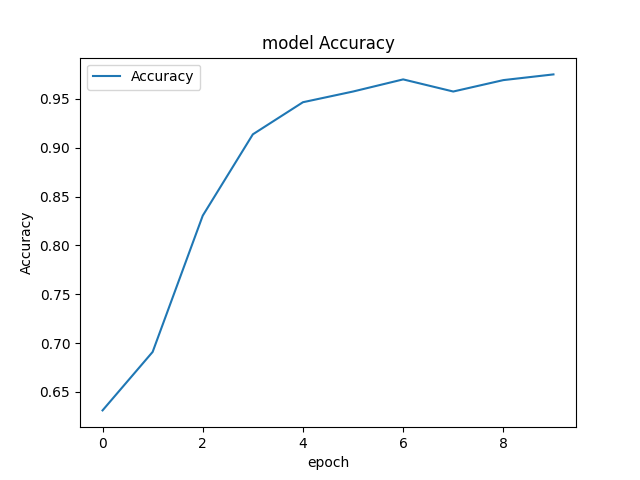
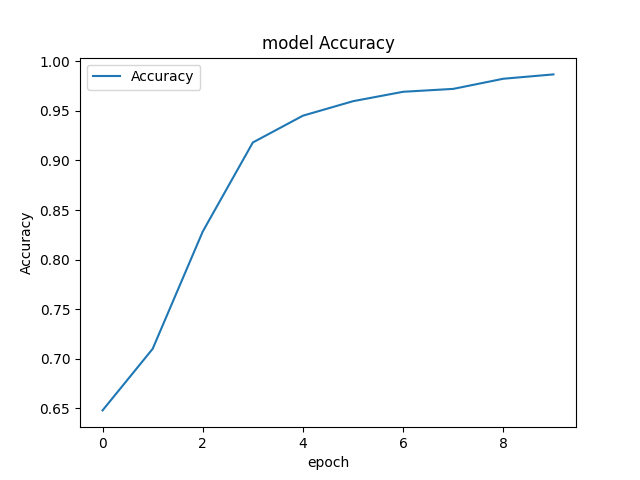
Final refactoring

diff --git a/Code/Models/nnPytorch.py b/Code/Models/nnPytorch.py
@@ -82,15 +82,15 @@ class NeuralNet:
         y_train = Variable(torch.from_numpy(self.y_train.values)).long()
         train_loss,train_acc = [],[] 
 
-        model = Model(self.input_dim, self.hidden_layer, self.output_dim)
-        optimizer = torch.optim.Adam(model.parameters(), lr=0.01)
+        self.model = Model(self.input_dim, self.hidden_layer, self.output_dim)
+        optimizer = torch.optim.Adam(self.model.parameters(), lr=0.01)
         criterion = nn.CrossEntropyLoss()
         
         # Calculating the model loss and accuracy for train dataset
-        model.train()
+        self.model.train()
         for epoch in range(epochs):
             optimizer.zero_grad()
-            y_pred = model(x_train)
+            y_pred = self.model(x_train)
             loss = criterion(y_pred, y_train)
             print ("epoch #",epoch)
             print ("loss: ", loss.item())
@@ -108,20 +108,20 @@ class NeuralNet:
         return max(train_acc)
 
     def testCaluculation(self):
-        torch.manual_seed(0)
-        self.X_train,self.X_test,self.y_train,self.y_test = self.dataProduce()
+        # torch.manual_seed(0)
+        # self.X_train,self.X_test,self.y_train,self.y_test = self.dataProduce()
         test_loss,test_acc = 0,0
 
-        model = Model(self.input_dim, self.hidden_layer, self.output_dim)
+        ##model = Model(self.input_dim, self.hidden_layer, self.output_dim)
         # optimizer = torch.optim.Adam(model.parameters(), lr=0.01)
         criterion = nn.CrossEntropyLoss()
 
-        model.eval()
+        self.model.eval()
         x_test = Variable(torch.from_numpy(self.X_test)).float()
         y_test = Variable(torch.from_numpy(self.y_test.to_numpy())).long()
 
         with torch.no_grad():
-            y_pred = model(x_test)
+            y_pred = self.model(x_test)
             loss = criterion(y_pred, y_test)
             pred = torch.max(y_pred, 1)[1].eq(y_test).sum()
             print ("Test loss: ", loss.item())
@@ -144,7 +144,8 @@ class NeuralNet:
         plt.pause(3)
         plt.close()
         plt.show()
+        return test
 
 
 if __name__ == '__main__':
-    NeuralNet('YoutubeComplete.csv',1000,100,2,30).run()
+    NeuralNet('YoutubeComplete.csv',1000,5,2,10).run()

diff --git a/main.py b/main.py
@@ -8,7 +8,7 @@ import SupportVectorMachine,NaiveBayes,RandomForest,nnPytorch,lstm
 data = 'YoutubeComplete.csv'
 
 svm = SupportVectorMachine.SupportVector(data)
-svm.supportVectorMachine()
+svmVals = svm.supportVectorMachine()
 
 rf = RandomForest.randomForest(data).metrics()
 
@@ -16,4 +16,4 @@ nb = NaiveBayes.NaiveBayes(data).naiveBayes()
 
 nerural = nnPytorch.NeuralNet(data,1000,100,2,30).run()
 
-rnn = lstm.LSTMImplement().run()
+lstm = lstm.LSTMImplement().run()

diff --git a/Code/Models/lstm.py b/Code/Models/lstm.py
@@ -100,8 +100,9 @@ class LSTMImplement:
             os.mkdir(os.path.join(immedDir, "Images/LSTM"))
         
         self.plotGraph(hist.history['acc'],"Accuracy")
-        self.plotGraph(hist.history['loss'],"Loss")
+        self.plotGraph(hist.history['val_acc'],"Validataion Accuracy")
+        
+        return max(hist.history['acc'])
 
-
-if __name__ == '__main__':
-    LSTMImplement().run()
+# if __name__ == '__main__':
+#     LSTMImplement().run()

diff --git a/Code/Preprocess/DataPreparation.py b/Code/Preprocess/DataPreparation.py
@@ -69,7 +69,7 @@ class dataPrepare:
         if typeModel == 'lstm':
             self.feature = t.texts_to_sequences(self.data.CONTENT)
         else:
-            self.feature = t.texts_to_matrix(self.data.CONTENT)
+            self.feature = t.texts_to_matrix(self.data.CONTENT, mode='tfidf')
 
         self.X = self.feature
         self.y = self.data.CLASS
